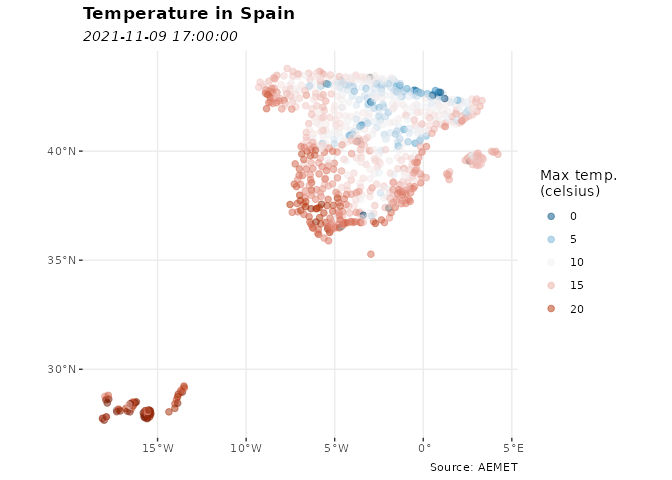
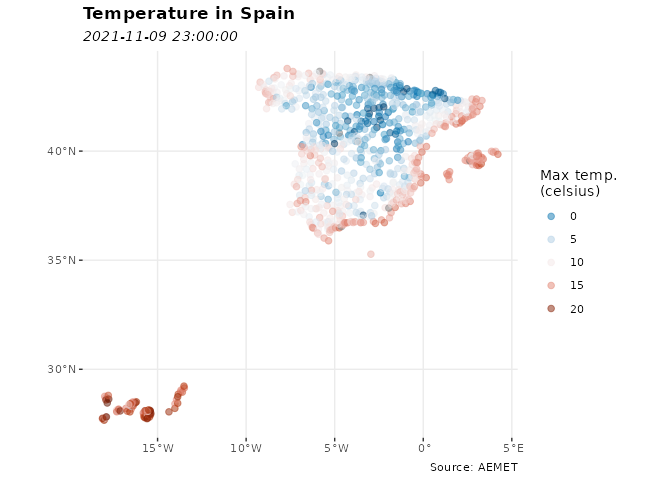
Update docs with pkgdev

diff --git a/README.md b/README.md
@@ -121,20 +121,20 @@ library(climaemet)
 # See a tibble in action
 
 aemet_last_obs("9434")
-#> # A tibble: 23 × 25
+#> # A tibble: 24 × 25
 #>    idema   lon fint                 prec   alt  vmax    vv    dv   lat  dmax
 #>    <chr> <dbl> <dttm>              <dbl> <dbl> <dbl> <dbl> <dbl> <dbl> <dbl>
-#>  1 9434  -1.00 2021-11-09 17:00:00     0   249   5.8   3.5   293  41.7   300
-#>  2 9434  -1.00 2021-11-09 18:00:00     0   249   4.8   3.9   278  41.7   293
-#>  3 9434  -1.00 2021-11-09 19:00:00     0   249   5.3   2.7   301  41.7   280
-#>  4 9434  -1.00 2021-11-09 20:00:00     0   249   6.5   3.1   285  41.7   298
-#>  5 9434  -1.00 2021-11-09 21:00:00     0   249   7.8   2.9   291  41.7   230
-#>  6 9434  -1.00 2021-11-09 22:00:00     0   249   7.1   4.3   293  41.7   300
-#>  7 9434  -1.00 2021-11-09 23:00:00     0   249   7.5   3.9   286  41.7   298
-#>  8 9434  -1.00 2021-11-10 00:00:00     0   249   8.8   6.3   293  41.7   288
-#>  9 9434  -1.00 2021-11-10 01:00:00     0   249   9     4.4   294  41.7   300
-#> 10 9434  -1.00 2021-11-10 02:00:00     0   249   7     5     282  41.7   293
-#> # … with 13 more rows, and 15 more variables: ubi <chr>, pres <dbl>, hr <dbl>,
+#>  1 9434  -1.00 2021-11-09 23:00:00     0   249   7.5   3.9   286  41.7   298
+#>  2 9434  -1.00 2021-11-10 00:00:00     0   249   8.8   6.3   293  41.7   288
+#>  3 9434  -1.00 2021-11-10 01:00:00     0   249   9     4.4   294  41.7   300
+#>  4 9434  -1.00 2021-11-10 02:00:00     0   249   7     5     282  41.7   293
+#>  5 9434  -1.00 2021-11-10 03:00:00     0   249   8     6.2   290  41.7   303
+#>  6 9434  -1.00 2021-11-10 04:00:00     0   249   6.6   2.5   317  41.7   295
+#>  7 9434  -1.00 2021-11-10 05:00:00     0   249   4.2   2.1   293  41.7   300
+#>  8 9434  -1.00 2021-11-10 06:00:00     0   249   3.5   2.5   315  41.7   320
+#>  9 9434  -1.00 2021-11-10 07:00:00     0   249   4.7   3.8   274  41.7   270
+#> 10 9434  -1.00 2021-11-10 08:00:00     0   249   8.6   5     299  41.7   295
+#> # … with 14 more rows, and 15 more variables: ubi <chr>, pres <dbl>, hr <dbl>,
 #> #   stdvv <dbl>, ts <dbl>, pres_nmar <dbl>, tamin <dbl>, ta <dbl>, tamax <dbl>,
 #> #   tpr <dbl>, stddv <dbl>, inso <dbl>, tss5cm <dbl>, pacutp <dbl>,
 #> #   tss20cm <dbl>
@@ -172,14 +172,14 @@ data_observation <- aemet_last_obs(station)
 knitr::kable(head(data_observation))
 ```
 
-| idema |        lon | fint                | prec | alt | vmax |  vv |  dv |      lat | dmax | ubi                 |  pres | hr | stdvv |   ts | pres\_nmar | tamin |   ta | tamax | tpr | stddv | inso | tss5cm | pacutp | tss20cm |
-| :---- | ---------: | :------------------ | ---: | --: | ---: | --: | --: | -------: | ---: | :------------------ | ----: | -: | ----: | ---: | ---------: | ----: | ---: | ----: | --: | ----: | ---: | -----: | -----: | ------: |
-| 9434  | \-1.004167 | 2021-11-09 17:00:00 |    0 | 249 |  5.8 | 3.5 | 293 | 41.66056 |  300 | ZARAGOZA AEROPUERTO | 989.2 | 41 |   0.3 | 11.4 |     1019.3 |  13.0 | 13.0 |  15.1 | 0.0 |     7 | 35.8 |   14.8 |      0 |    14.0 |
-| 9434  | \-1.004167 | 2021-11-09 18:00:00 |    0 | 249 |  4.8 | 3.9 | 278 | 41.66056 |  293 | ZARAGOZA AEROPUERTO | 990.1 | 49 |   0.5 |  9.2 |     1020.5 |  10.5 | 10.5 |  13.0 | 0.2 |     6 |  0.0 |   13.7 |      0 |    14.1 |
-| 9434  | \-1.004167 | 2021-11-09 19:00:00 |    0 | 249 |  5.3 | 2.7 | 301 | 41.66056 |  280 | ZARAGOZA AEROPUERTO | 990.5 | 51 |   0.2 |  8.5 |     1020.9 |  10.0 | 10.1 |  10.5 | 0.4 |     6 |  0.0 |   12.9 |      0 |    14.1 |
-| 9434  | \-1.004167 | 2021-11-09 20:00:00 |    0 | 249 |  6.5 | 3.1 | 285 | 41.66056 |  298 | ZARAGOZA AEROPUERTO | 990.7 | 56 |   0.4 |  7.6 |     1021.2 |   9.0 |  9.0 |  10.1 | 0.6 |    10 |  0.0 |   12.3 |      0 |    14.0 |
-| 9434  | \-1.004167 | 2021-11-09 21:00:00 |    0 | 249 |  7.8 | 2.9 | 291 | 41.66056 |  230 | ZARAGOZA AEROPUERTO | 991.5 | 60 |   0.3 |  7.0 |     1022.1 |   8.4 |  8.4 |   9.2 | 1.1 |     5 |  0.0 |   11.7 |      0 |    13.8 |
-| 9434  | \-1.004167 | 2021-11-09 22:00:00 |    0 | 249 |  7.1 | 4.3 | 293 | 41.66056 |  300 | ZARAGOZA AEROPUERTO | 991.3 | 63 |   0.5 |  6.9 |     1022.0 |   7.8 |  8.0 |   8.4 | 1.5 |     8 |  0.0 |   11.2 |      0 |    13.6 |
+| idema |        lon | fint                | prec | alt | vmax |  vv |  dv |      lat | dmax | ubi                 |  pres | hr | stdvv |  ts | pres\_nmar | tamin |  ta | tamax | tpr | stddv | inso | tss5cm | pacutp | tss20cm |
+| :---- | ---------: | :------------------ | ---: | --: | ---: | --: | --: | -------: | ---: | :------------------ | ----: | -: | ----: | --: | ---------: | ----: | --: | ----: | --: | ----: | ---: | -----: | -----: | ------: |
+| 9434  | \-1.004167 | 2021-11-09 23:00:00 |    0 | 249 |  7.5 | 3.9 | 286 | 41.66056 |  298 | ZARAGOZA AEROPUERTO | 991.4 | 65 |   0.3 | 6.5 |     1022.2 |   7.3 | 7.3 |   8.1 | 1.1 |     4 |    0 |   10.9 |      0 |    13.4 |
+| 9434  | \-1.004167 | 2021-11-10 00:00:00 |    0 | 249 |  8.8 | 6.3 | 293 | 41.66056 |  288 | ZARAGOZA AEROPUERTO | 991.4 | 66 |   0.8 | 6.9 |     1022.2 |   7.0 | 7.3 |   7.7 | 1.3 |     6 |    0 |   10.5 |      0 |    13.2 |
+| 9434  | \-1.004167 | 2021-11-10 01:00:00 |    0 | 249 |  9.0 | 4.4 | 294 | 41.66056 |  300 | ZARAGOZA AEROPUERTO | 991.2 | 70 |   0.6 | 5.4 |     1022.1 |   6.0 | 6.0 |   7.4 | 0.9 |     5 |    0 |   10.2 |      0 |    13.0 |
+| 9434  | \-1.004167 | 2021-11-10 02:00:00 |    0 | 249 |  7.0 | 5.0 | 282 | 41.66056 |  293 | ZARAGOZA AEROPUERTO | 991.7 | 68 |   0.6 | 5.8 |     1022.5 |   5.6 | 6.7 |   6.7 | 1.3 |     6 |    0 |    9.8 |      0 |    12.8 |
+| 9434  | \-1.004167 | 2021-11-10 03:00:00 |    0 | 249 |  8.0 | 6.2 | 290 | 41.66056 |  303 | ZARAGOZA AEROPUERTO | 991.3 | 71 |   0.5 | 5.5 |     1022.2 |   5.9 | 5.9 |   6.9 | 1.1 |     4 |    0 |    9.6 |      0 |    12.6 |
+| 9434  | \-1.004167 | 2021-11-10 04:00:00 |    0 | 249 |  6.6 | 2.5 | 317 | 41.66056 |  295 | ZARAGOZA AEROPUERTO | 991.3 | 73 |   0.4 | 4.3 |     1022.3 |   5.3 | 5.4 |   5.9 | 0.9 |     7 |    0 |    9.3 |      0 |    12.4 |
 
 ``` r
 
